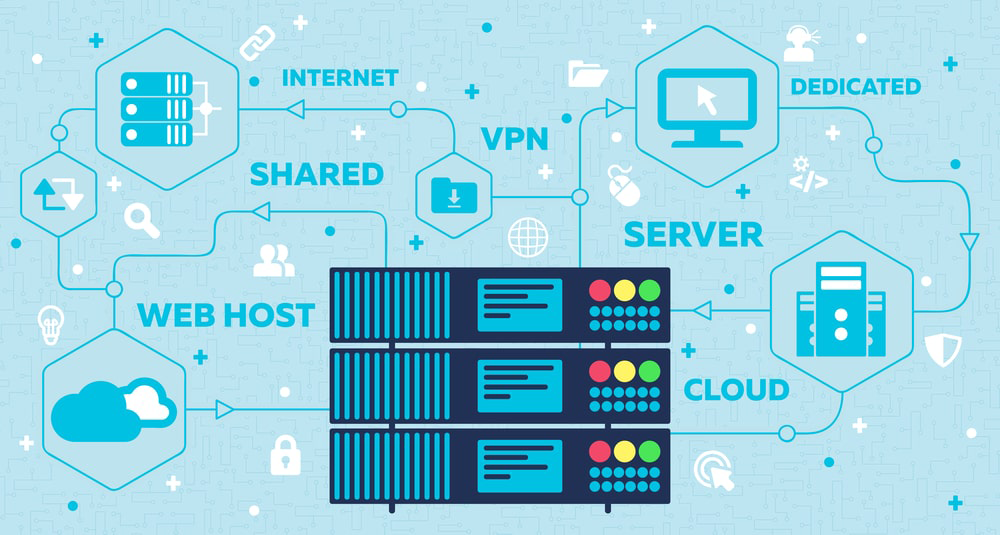
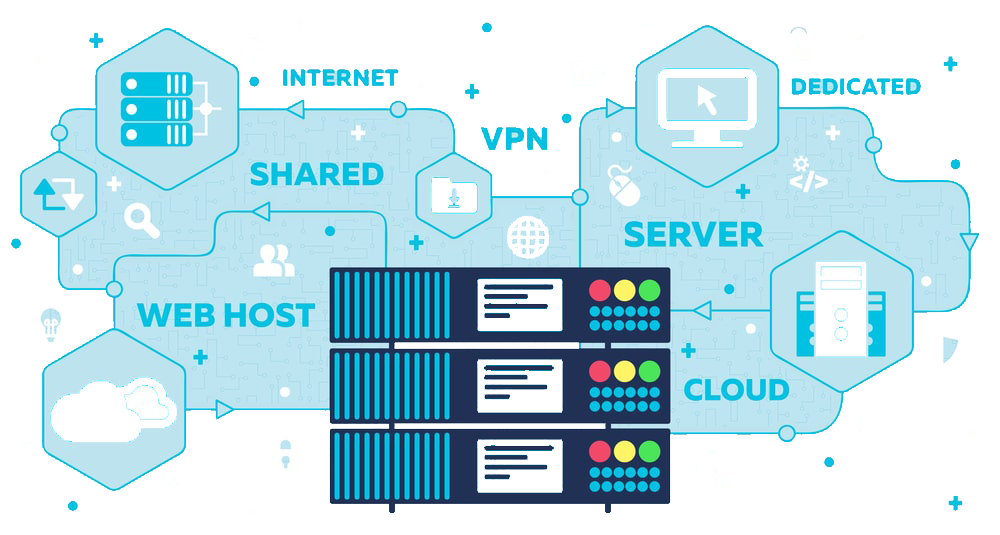
fifthCommit-added: more content,png fig. for slide

diff --git a/index.html b/index.html
@@ -58,15 +58,15 @@
                         </div>
                     </div>
                     <div class="carousel-item">
-                    <div class="container item-text">
-                        <h1 class="animatU">Web & Software
-                            Development</h1>
-                        <p class="animatU">Lorem ipsum dolor sit amet consectetur adipisicing elit. Expedita, asperiores. Architecto, totam ducimus!</p>
-                        <a href="http://"><button type="button" class="btn btn-outline-primary animatU">VIEW PROJECTS</button></a>
-                    </div>
-                    <div class="item-fig">
-                        <img src="./images/Untitled-1.png" class="slide-img animatU" alt="">
-                    </div>
+                        <div class="container item-text">
+                            <h1 class="animatU">Web & Software
+                                Development</h1>
+                            <p class="animatU">Lorem ipsum dolor sit amet consectetur adipisicing elit. Expedita, asperiores. Architecto, totam ducimus!</p>
+                            <a href="http://"><button type="button" class="btn btn-outline-primary animatU">VIEW PROJECTS</button></a>
+                        </div>
+                        <div class="item-fig">
+                            <img src="./images/slideTwo-img.png" class="slide-img animatU" alt="">
+                        </div>
                     </div>
                 </div>
             </div>
@@ -80,6 +80,40 @@
                 <h1>Lorem ipsum dolor sit amet consectetur, adipisicing elit. Quasi odio asperiores neque deserunt vitae aspernatur, modi repellendus nesciunt soluta adipisci. Cupiditate harum qui enim, inventore pariatur dolore commodi labore excepturi?</h1>
             </div>
         </div>
+        <div class="services-sec">
+            <div class="servicesLabel">
+                <h1>Our Services</h1>
+            </div>
+            <div class="servicesDesc">
+                <div class="servicesBlocks">
+                    <div class="block-one">
+                        <div class="service circ-one">
+                            <ion-icon name="call-outline"></ion-icon>
+                            <h3>Domain Hosting</h3>
+                            <p>Lorem ipsum dolor sit amet consectetur, adipisicing elit.</p>
+                        </div>
+                        <div class="service circ-two">
+                            <i class='fab fa-amazon-pay'></i>
+                            <h3>Domain Hosting</h3>
+                            <p>Lorem ipsum dolor sit amet consectetur, adipisicing elit.</p>
+                        </div>
+                    </div>
+                    <div class="block-two">
+                        <div class="service circ-three">
+                            <ion-icon name="call-outline"></ion-icon>
+                            <h3>Domain Hosting</h3>
+                            <p>Lorem ipsum dolor sit amet consectetur, adipisicing elit.</p>
+                        </div>
+                        <div class="service circ-four">
+                            <i class='fab fa-amazon-pay'></i>
+                            <h3>Domain Hosting</h3>
+                            <p>Lorem ipsum dolor sit amet consectetur, adipisicing elit.</p>
+                        </div>
+                    </div>
+                </div>
+            </div>
+        </div>
+
     </div>
     <div class="area">
         <ul class="circles">
@@ -105,6 +139,8 @@
     <script src="https://stackpath.bootstrapcdn.com/bootstrap/4.4.1/js/bootstrap.min.js"
         integrity="sha384-wfSDF2E50Y2D1uUdj0O3uMBJnjuUD4Ih7YwaYd1iqfktj0Uod8GCExl3Og8ifwB6" crossorigin="anonymous">
     </script>
+    <script src="https://unpkg.com/ionicons@5.0.0/dist/ionicons.js" crossorigin="anonymous"></script>
+    <script src="https://kit.fontawesome.com/5e819a5b07.js" crossorigin="anonymous"></script>
     <script src="./js/scripts.js"></script>
 </body>
 </html>

diff --git a/css/styles.css b/css/styles.css
@@ -130,8 +130,8 @@ body{
 .slide-img{
     width: 100%;
     height: auto;
-    max-width: 450px;
-    max-height: 500px;
+    max-width: 580px;
+    max-height: 600px;
     border-radius: 10px;
     position: absolute;
     top: 50px;
